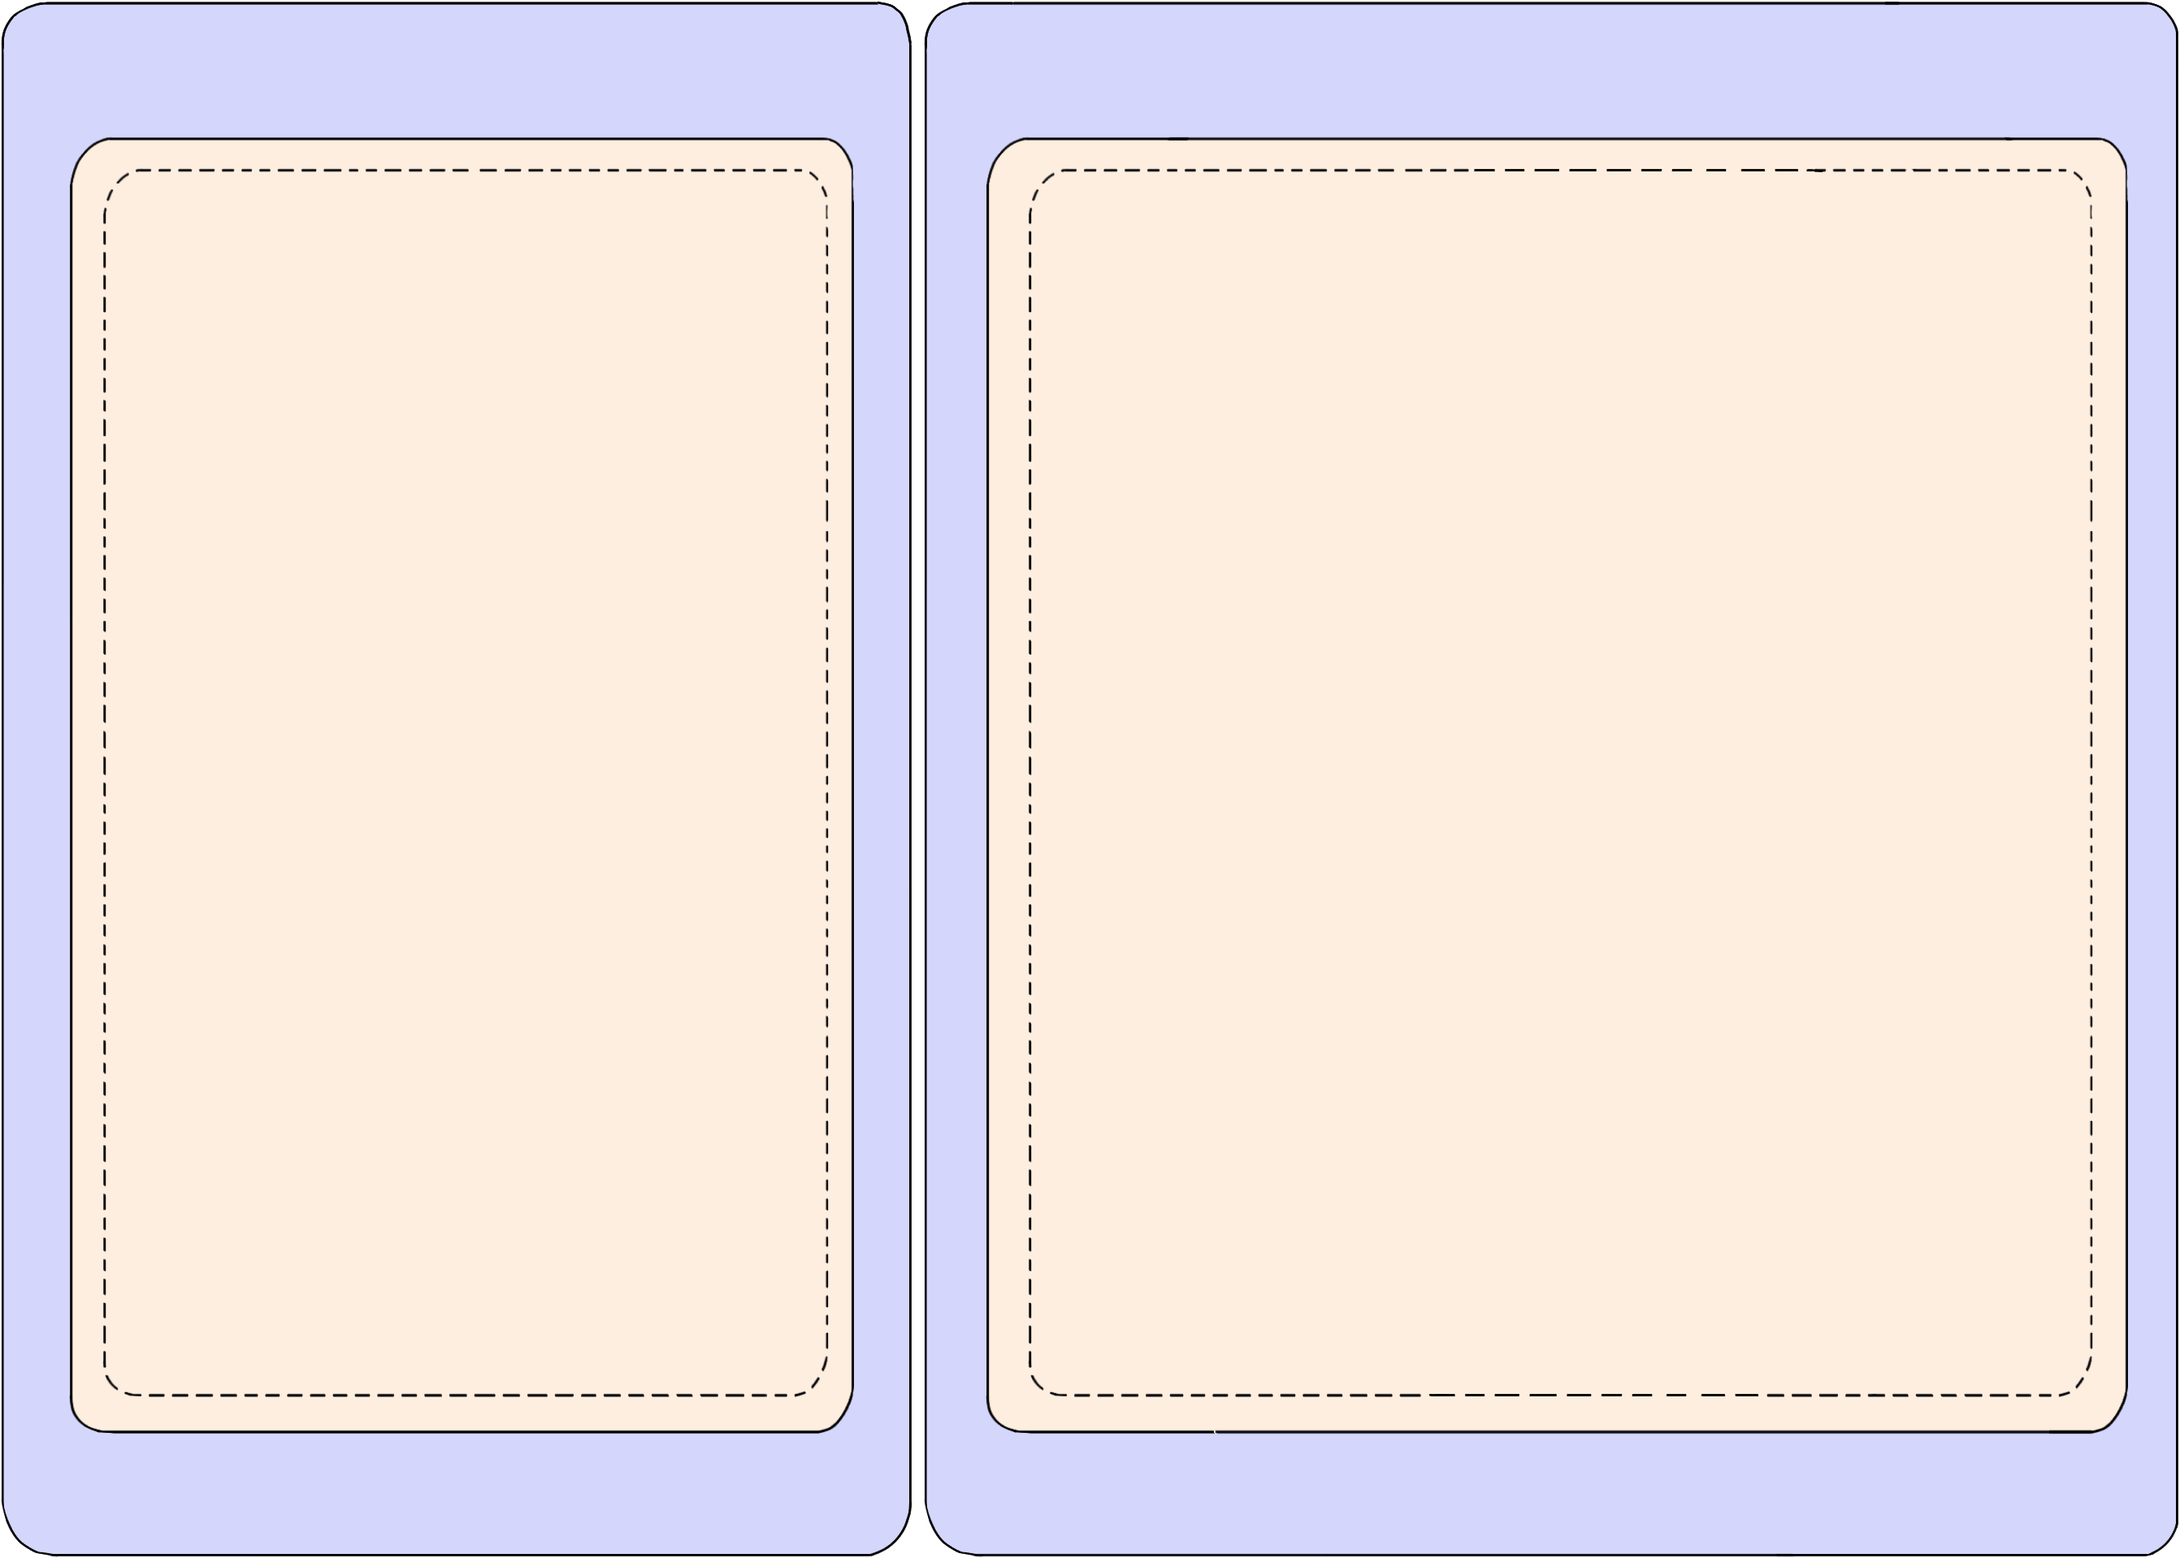
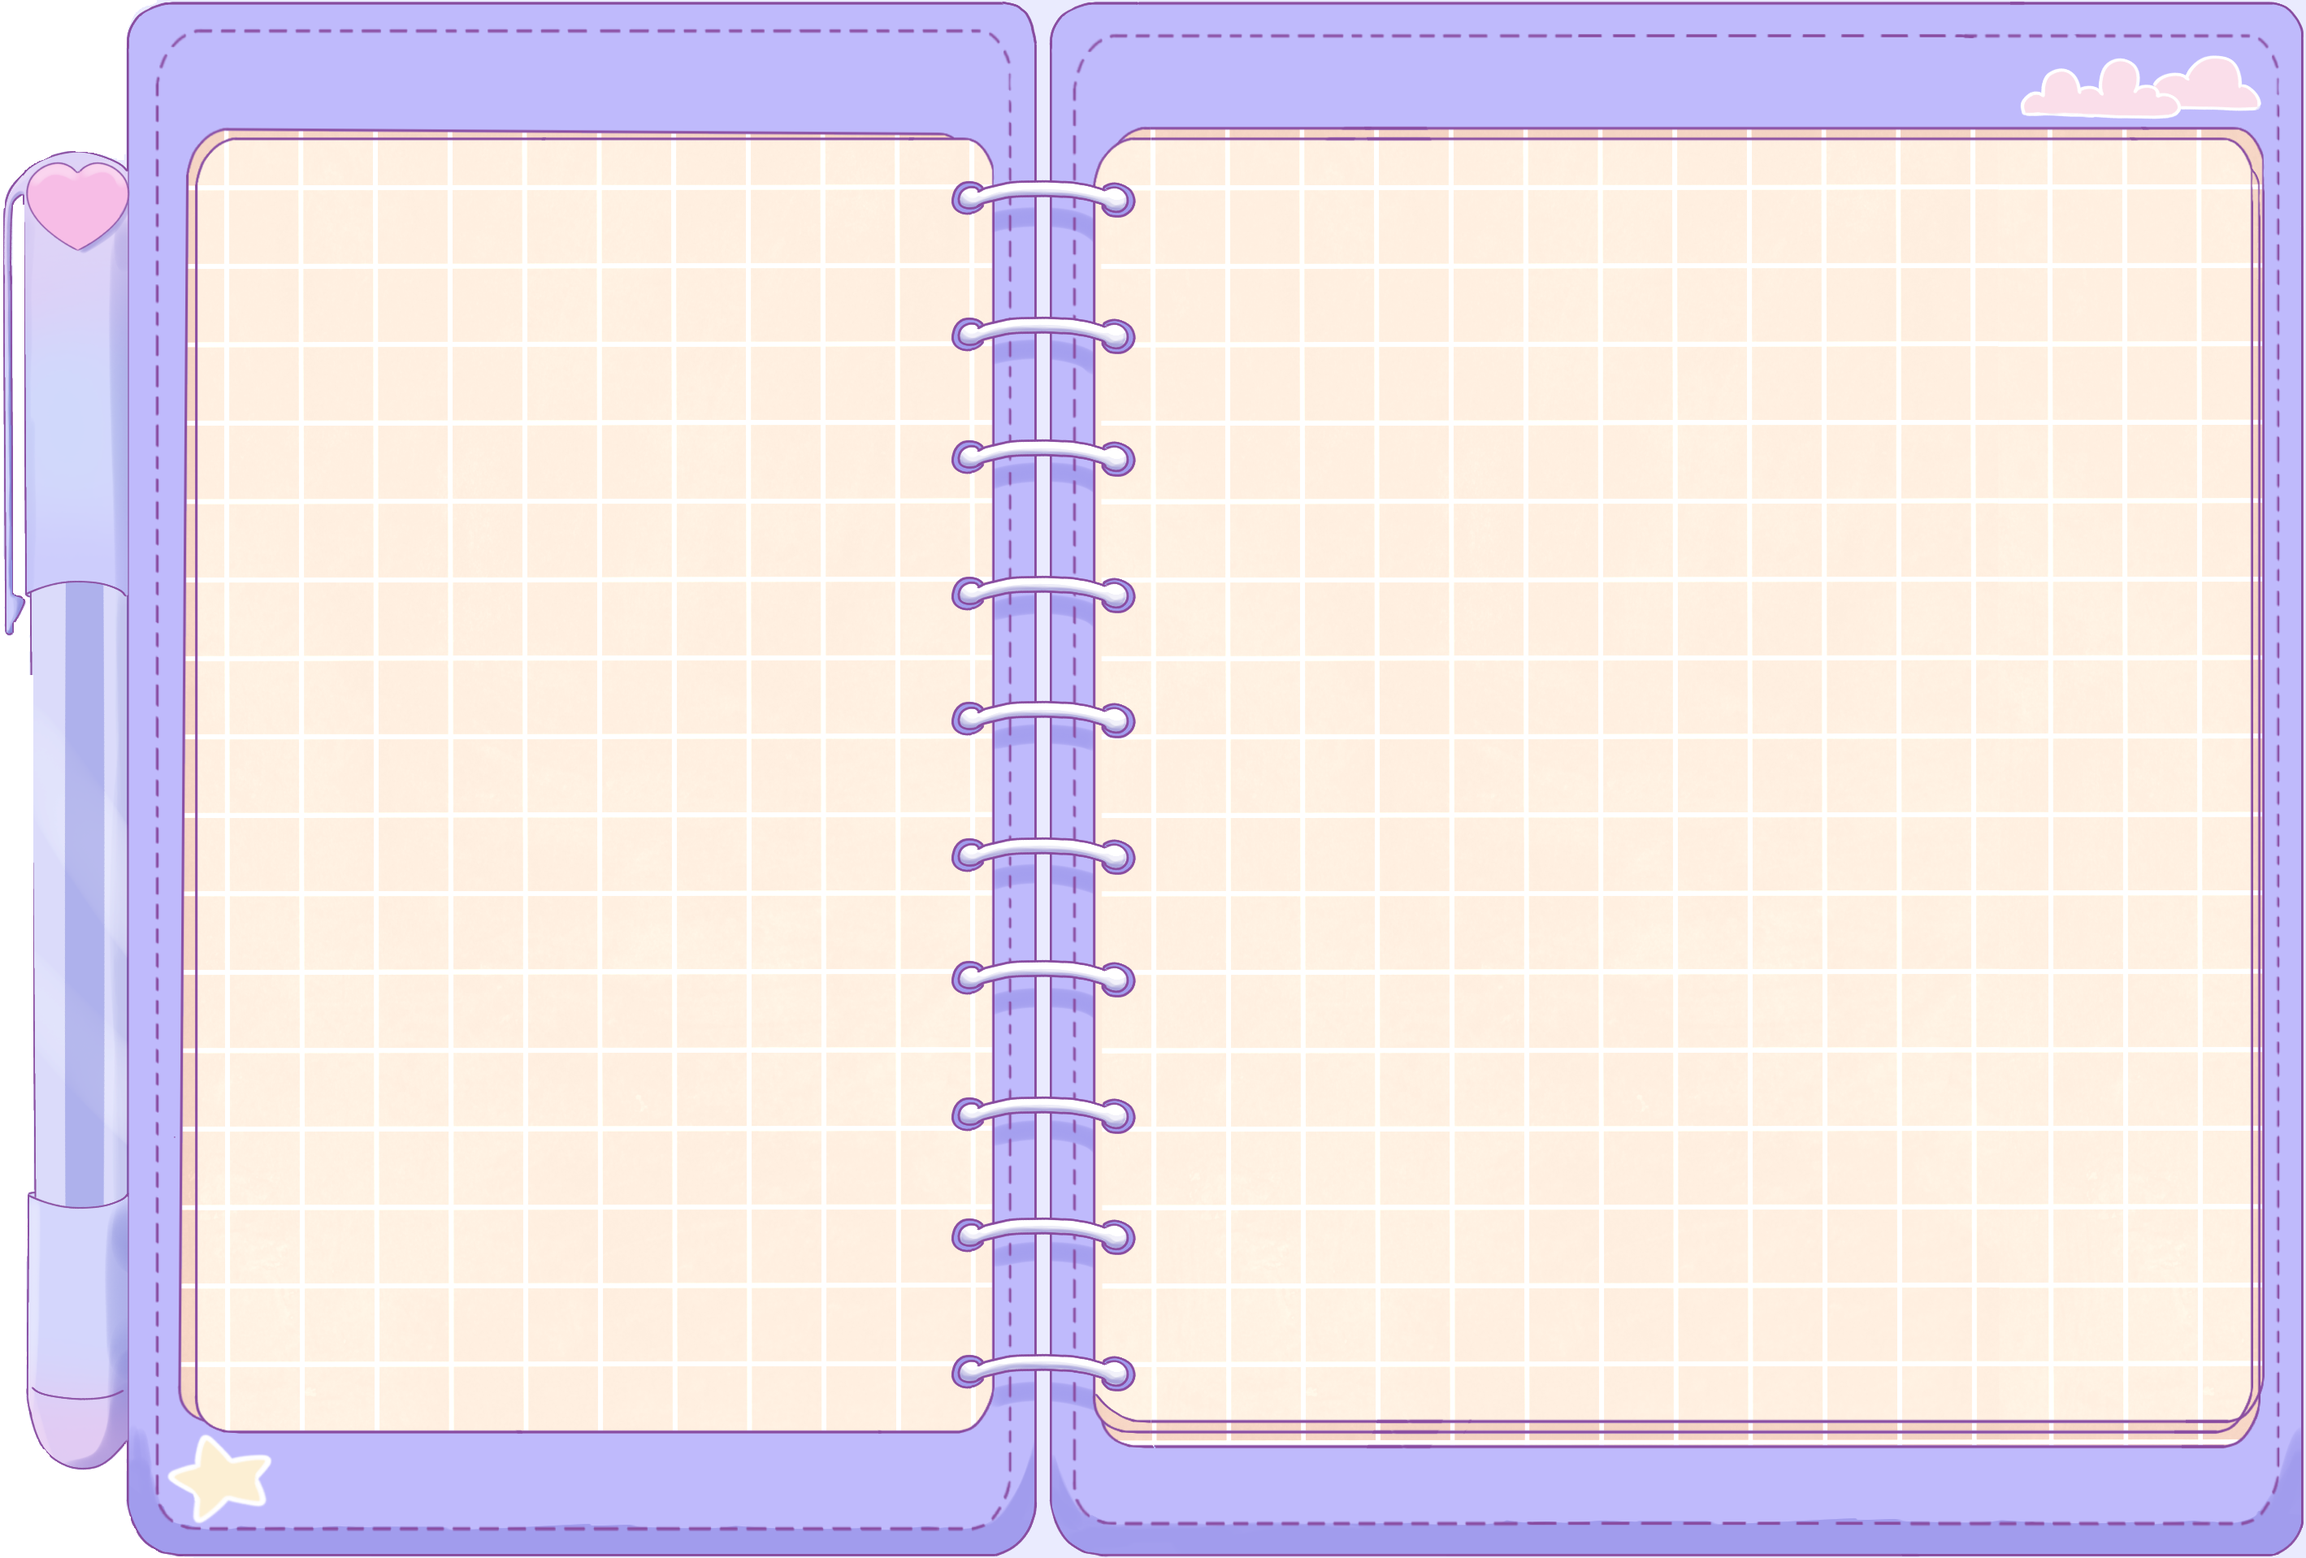
可愛背景
but with a few badly cropped pixels

diff --git a/style.css b/style.css
@@ -8,7 +8,10 @@
 body 
 {
     overflow-x: hidden;
-    background-color: #f5f5f5;
+    background-image: url(images/Assets/SiteBackground.png);
+    background-size: cover;
+    background-position: center;
+    background-repeat: no-repeat;
     display: flex;
     justify-content: center;
     align-items: center;
@@ -56,9 +59,9 @@ h2 {
     inset: 0;
     display: flex;
     z-index: 5;
-    padding-left: 6%;
-    padding-right: 6%;
-    padding-top: 7%;
+    padding-left: 7%;
+    padding-right: 2%;
+    padding-top: 6%;
     box-sizing: border-box;
 }
 
@@ -95,7 +98,7 @@ h2 {
 .right 
 {
     box-sizing: border-box;
-    padding-left: 10%;
+    padding-left: 8%;
     width: 60%;
 }
 
@@ -114,7 +117,7 @@ h2 {
 .tabs 
 {
     position: absolute;
-    left: 94%; /*right: -24px;*/
+    left: 97.6%; /*right: -24px;*/
     top: 10%;
     display: flex; /*這個沒有好像也不會怎樣？？*/
     flex-direction: column;
@@ -146,13 +149,17 @@ h2 {
 
 .sub-tabs a 
 {
+  background-image: url(images/Assets/SubBookmarkBase.png);
+  background-size: 100% 100%; 
+  background-color: transparent;
   display: block;
-  background-color: #ffd6de;
+  background-repeat: no-repeat;
+  background-position: center;
+  color: black;
   padding: 8px 14px;
   margin-top: 6px;
   border-radius: 0 8px 8px 0;
   text-decoration: none;
-  color: black;
   white-space: nowrap;
 }
 
